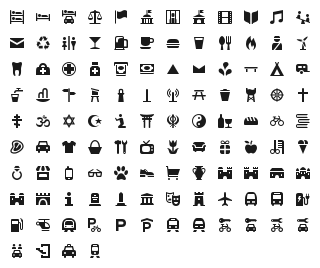
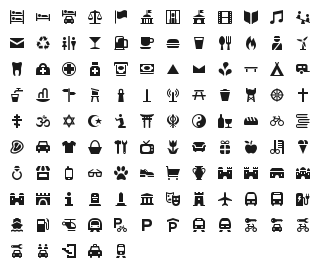
added ferry (modified Maki version)

diff --git a/font/osmic-preview.html b/font/osmic-preview.html
@@ -199,6 +199,7 @@
 .oc-electronics:before,
 .oc-embassy:before,
 .oc-fast-food:before,
+.oc-ferry:before,
 .oc-fire-station:before,
 .oc-florist:before,
 .oc-fountain:before,
@@ -325,6 +326,7 @@
 .oc-electronics:before { content: "\f123"; }
 .oc-embassy:before { content: "\f124"; }
 .oc-fast-food:before { content: "\f125"; }
+.oc-ferry:before { content: "\f170"; }
 .oc-fire-station:before { content: "\f126"; }
 .oc-florist:before { content: "\f127"; }
 .oc-fountain:before { content: "\f128"; }
@@ -413,7 +415,7 @@
   <body class="characters-off">
     <div id="page" class="container">
       <header>
-        <h1>osmic contains 112 glyphs:</h1>
+        <h1>osmic contains 113 glyphs:</h1>
         <a onclick="toggleCharacters(); return false;" href="#">Toggle Preview Characters</a>
       </header>
 
@@ -922,6 +924,19 @@
         <div class="usage">
           <input class="class" type="text" readonly="readonly" onClick="this.select();" value=".oc-fast-food" />
           <input class="point" type="text" readonly="readonly" onClick="this.select();" value="&amp;#xf125;" />
+        </div>
+      </div>
+      
+      <div class="glyph">
+        <div class="preview-glyphs">
+          <span class="step size-12"><span class="letters">Pp</span><i id="oc-ferry" class="oc-ferry"></i></span><span class="step size-14"><span class="letters">Pp</span><i id="oc-ferry" class="oc-ferry"></i></span><span class="step size-16"><span class="letters">Pp</span><i id="oc-ferry" class="oc-ferry"></i></span><span class="step size-18"><span class="letters">Pp</span><i id="oc-ferry" class="oc-ferry"></i></span><span class="step size-21"><span class="letters">Pp</span><i id="oc-ferry" class="oc-ferry"></i></span><span class="step size-24"><span class="letters">Pp</span><i id="oc-ferry" class="oc-ferry"></i></span><span class="step size-36"><span class="letters">Pp</span><i id="oc-ferry" class="oc-ferry"></i></span><span class="step size-48"><span class="letters">Pp</span><i id="oc-ferry" class="oc-ferry"></i></span><span class="step size-60"><span class="letters">Pp</span><i id="oc-ferry" class="oc-ferry"></i></span><span class="step size-72"><span class="letters">Pp</span><i id="oc-ferry" class="oc-ferry"></i></span>
+        </div>
+        <div class="preview-scale">
+          <span class="step">12</span><span class="step">14</span><span class="step">16</span><span class="step">18</span><span class="step">21</span><span class="step">24</span><span class="step">36</span><span class="step">48</span><span class="step">60</span><span class="step">72</span>
+        </div>
+        <div class="usage">
+          <input class="class" type="text" readonly="readonly" onClick="this.select();" value=".oc-ferry" />
+          <input class="point" type="text" readonly="readonly" onClick="this.select();" value="&amp;#xf170;" />
         </div>
       </div>
       

diff --git a/font/osmic.css b/font/osmic.css
@@ -62,6 +62,7 @@
 .oc-electronics:before,
 .oc-embassy:before,
 .oc-fast-food:before,
+.oc-ferry:before,
 .oc-fire-station:before,
 .oc-florist:before,
 .oc-fountain:before,
@@ -188,6 +189,7 @@
 .oc-electronics:before { content: "\f123"; }
 .oc-embassy:before { content: "\f124"; }
 .oc-fast-food:before { content: "\f125"; }
+.oc-ferry:before { content: "\f170"; }
 .oc-fire-station:before { content: "\f126"; }
 .oc-florist:before { content: "\f127"; }
 .oc-fountain:before { content: "\f128"; }
